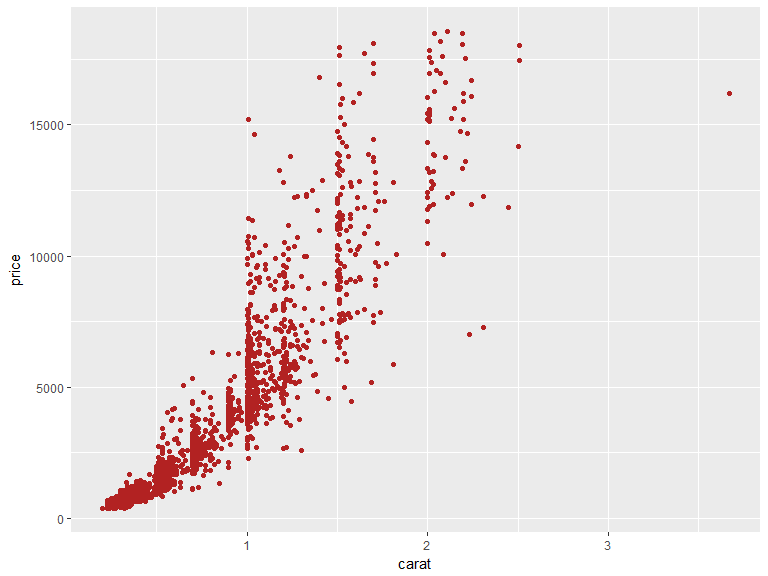
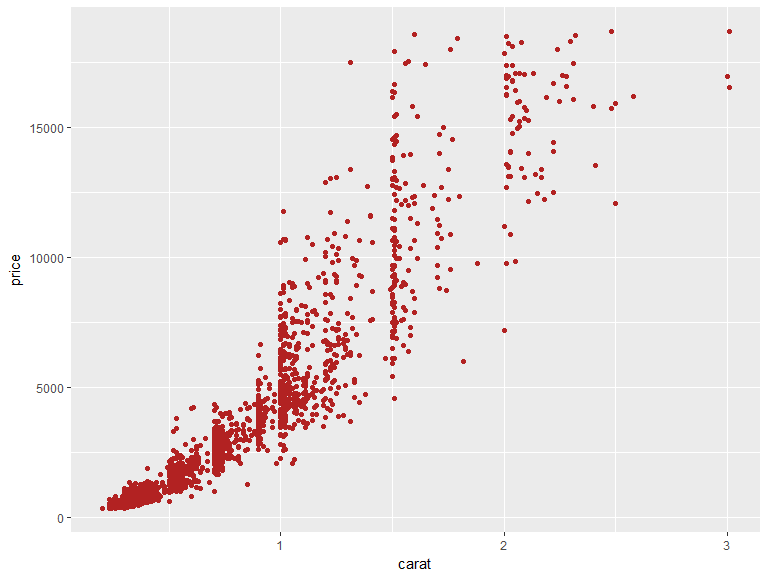
Updating changes

diff --git a/QCBS Workshop Master Deck/QCBS-R-Revamping-Slides.html b/QCBS Workshop Master Deck/QCBS-R-Revamping-Slides.html
@@ -573,15 +573,15 @@ diamonds &lt;-<span class="st"> </span>diamonds[<span class="kw">sample</span>(<
        <span class="kw">aes</span>(carat, price)) <span class="op">+</span>
 <span class="st">  </span><span class="kw">geom_point</span>(<span class="dt">color=</span><span class="st">&quot;firebrick&quot;</span>)</code></pre></div>
 <p><img src="QCBS-R-Revamping-Slides_files/figure-revealjs/unnamed-chunk-4-1.png" /><!-- --></p>
-</section><section id="slide-with-another-ggplot-and-arrows-between-them" class="slide level2">
-<h2>Slide with another ggplot and arrows between them</h2>
+</section><section id="slide-with-another-ggplot-grid-and-arrows-between-them" class="slide level2">
+<h2>Slide with another ggplot, grid and arrows between them</h2>
 <p><img src="QCBS-R-Revamping-Slides_files/figure-revealjs/unnamed-chunk-5-1.png" /><!-- --></p>
 <p><a href="https://stackoverflow.com/questions/34744655/how-to-make-a-chain-of-ggplots-and-draw-arrows-between-them" class="uri">https://stackoverflow.com/questions/34744655/how-to-make-a-chain-of-ggplots-and-draw-arrows-between-them</a></p>
 </section><section id="use-a-zoom-transition-ggplot-and-plotly" class="slide level2" data-transition="zoom">
 <h2>Use a zoom transition, ggplot and plotly!</h2>
 <p><em>It is interactive!!!</em></p>
-<div id="1dcc5cab5839" style="width:768px;height:576px;" class="plotly html-widget"></div>
-<script type="application/json" data-for="1dcc5cab5839">{"x":{"data":[{"x":[-18,-21,-20,-21,-18,-16,-20,-19,-19,-22,-18,-28,-24,-25,-23,-24,-26,-25,-24,-21,-18,-18,-21,-21,-19,-19,-20,-20,-21,-19,-23,-23,-18,-18,-20,-19,-20,-18,-21,-19,-19,-19,-20,-20,-19,-20,-15,-16,-21,-21,-21,-21,-21,-21,-21,-22,-24,-24,-26,-28,-26,-15,-16,-17,-21,-19,-21,-22,-33,-21,-19,-22,-21,-35,-29,-21,-19,-21,-18,-19,-21],"y":[29,29,31,30,26,25,28,27,27,30,24,33,32,32,29,32,34,36,36,29,26,27,30,31,26,29,28,27,29,27,31,32,25,24,27,25,26,23,26,26,26,26,25,27,25,27,20,20,29,27,31,31,27,29,31,31,30,33,35,37,35,20,20,22,29,26,29,29,44,29,26,29,29,44,41,29,26,29,29,28,29],"text":["-cty: -18<br />hwy: 29<br />as.factor(cyl): 4","-cty: -21<br />hwy: 29<br />as.factor(cyl): 4","-cty: -20<br />hwy: 31<br />as.factor(cyl): 4","-cty: -21<br />hwy: 30<br />as.factor(cyl): 4","-cty: -18<br />hwy: 26<br />as.factor(cyl): 4","-cty: -16<br />hwy: 25<br />as.factor(cyl): 4","-cty: -20<br />hwy: 28<br />as.factor(cyl): 4","-cty: -19<br />hwy: 27<br />as.factor(cyl): 4","-cty: -19<br />hwy: 27<br />as.factor(cyl): 4","-cty: -22<br />hwy: 30<br />as.factor(cyl): 4","-cty: -18<br />hwy: 24<br />as.factor(cyl): 4","-cty: -28<br />hwy: 33<br />as.factor(cyl): 4","-cty: -24<br />hwy: 32<br />as.factor(cyl): 4","-cty: -25<br />hwy: 32<br />as.factor(cyl): 4","-cty: -23<br />hwy: 29<br />as.factor(cyl): 4","-cty: -24<br />hwy: 32<br />as.factor(cyl): 4","-cty: -26<br />hwy: 34<br />as.factor(cyl): 4","-cty: -25<br />hwy: 36<br />as.factor(cyl): 4","-cty: -24<br />hwy: 36<br />as.factor(cyl): 4","-cty: -21<br />hwy: 29<br />as.factor(cyl): 4","-cty: -18<br />hwy: 26<br />as.factor(cyl): 4","-cty: -18<br />hwy: 27<br />as.factor(cyl): 4","-cty: -21<br />hwy: 30<br />as.factor(cyl): 4","-cty: -21<br />hwy: 31<br />as.factor(cyl): 4","-cty: -19<br />hwy: 26<br />as.factor(cyl): 4","-cty: -19<br />hwy: 29<br />as.factor(cyl): 4","-cty: -20<br />hwy: 28<br />as.factor(cyl): 4","-cty: -20<br />hwy: 27<br />as.factor(cyl): 4","-cty: -21<br />hwy: 29<br />as.factor(cyl): 4","-cty: -19<br />hwy: 27<br />as.factor(cyl): 4","-cty: -23<br />hwy: 31<br />as.factor(cyl): 4","-cty: -23<br />hwy: 32<br />as.factor(cyl): 4","-cty: -18<br />hwy: 25<br />as.factor(cyl): 4","-cty: -18<br />hwy: 24<br />as.factor(cyl): 4","-cty: -20<br />hwy: 27<br />as.factor(cyl): 4","-cty: -19<br />hwy: 25<br />as.factor(cyl): 4","-cty: -20<br />hwy: 26<br />as.factor(cyl): 4","-cty: -18<br />hwy: 23<br />as.factor(cyl): 4","-cty: -21<br />hwy: 26<br />as.factor(cyl): 4","-cty: -19<br />hwy: 26<br />as.factor(cyl): 4","-cty: -19<br />hwy: 26<br />as.factor(cyl): 4","-cty: -19<br />hwy: 26<br />as.factor(cyl): 4","-cty: -20<br />hwy: 25<br />as.factor(cyl): 4","-cty: -20<br />hwy: 27<br />as.factor(cyl): 4","-cty: -19<br />hwy: 25<br />as.factor(cyl): 4","-cty: -20<br />hwy: 27<br />as.factor(cyl): 4","-cty: -15<br />hwy: 20<br />as.factor(cyl): 4","-cty: -16<br />hwy: 20<br />as.factor(cyl): 4","-cty: -21<br />hwy: 29<br />as.factor(cyl): 4","-cty: -21<br />hwy: 27<br />as.factor(cyl): 4","-cty: -21<br />hwy: 31<br />as.factor(cyl): 4","-cty: -21<br />hwy: 31<br />as.factor(cyl): 4","-cty: -21<br />hwy: 27<br />as.factor(cyl): 4","-cty: -21<br />hwy: 29<br />as.factor(cyl): 4","-cty: -21<br />hwy: 31<br />as.factor(cyl): 4","-cty: -22<br />hwy: 31<br />as.factor(cyl): 4","-cty: -24<br />hwy: 30<br />as.factor(cyl): 4","-cty: -24<br />hwy: 33<br />as.factor(cyl): 4","-cty: -26<br />hwy: 35<br />as.factor(cyl): 4","-cty: -28<br />hwy: 37<br />as.factor(cyl): 4","-cty: -26<br />hwy: 35<br />as.factor(cyl): 4","-cty: -15<br />hwy: 20<br />as.factor(cyl): 4","-cty: -16<br />hwy: 20<br />as.factor(cyl): 4","-cty: -17<br />hwy: 22<br />as.factor(cyl): 4","-cty: -21<br />hwy: 29<br />as.factor(cyl): 4","-cty: -19<br />hwy: 26<br />as.factor(cyl): 4","-cty: -21<br />hwy: 29<br />as.factor(cyl): 4","-cty: -22<br />hwy: 29<br />as.factor(cyl): 4","-cty: -33<br />hwy: 44<br />as.factor(cyl): 4","-cty: -21<br />hwy: 29<br />as.factor(cyl): 4","-cty: -19<br />hwy: 26<br />as.factor(cyl): 4","-cty: -22<br />hwy: 29<br />as.factor(cyl): 4","-cty: -21<br />hwy: 29<br />as.factor(cyl): 4","-cty: -35<br />hwy: 44<br />as.factor(cyl): 4","-cty: -29<br />hwy: 41<br />as.factor(cyl): 4","-cty: -21<br />hwy: 29<br />as.factor(cyl): 4","-cty: -19<br />hwy: 26<br />as.factor(cyl): 4","-cty: -21<br />hwy: 29<br />as.factor(cyl): 4","-cty: -18<br />hwy: 29<br />as.factor(cyl): 4","-cty: -19<br />hwy: 28<br />as.factor(cyl): 4","-cty: -21<br />hwy: 29<br />as.factor(cyl): 4"],"type":"scatter","mode":"markers","marker":{"autocolorscale":false,"color":"rgba(248,118,109,1)","opacity":1,"size":5.66929133858268,"symbol":"circle","line":{"width":1.88976377952756,"color":"rgba(248,118,109,1)"}},"hoveron":"points","name":"4","legendgroup":"4","showlegend":true,"xaxis":"x","yaxis":"y","hoverinfo":"text","frame":null},{"x":[-21,-21,-20,-20],"y":[29,29,28,29],"text":["-cty: -21<br />hwy: 29<br />as.factor(cyl): 5","-cty: -21<br />hwy: 29<br />as.factor(cyl): 5","-cty: -20<br />hwy: 28<br />as.factor(cyl): 5","-cty: -20<br />hwy: 29<br />as.factor(cyl): 5"],"type":"scatter","mode":"markers","marker":{"autocolorscale":false,"color":"rgba(124,174,0,1)","opacity":1,"size":5.66929133858268,"symbol":"circle","line":{"width":1.88976377952756,"color":"rgba(124,174,0,1)"}},"hoveron":"points","name":"5","legendgroup":"5","showlegend":true,"xaxis":"x","yaxis":"y","hoverinfo":"text","frame":null},{"x":[-16,-18,-18,-15,-17,-17,-15,-15,-17,-18,-18,-17,-17,-16,-16,-17,-17,-11,-15,-15,-16,-16,-15,-14,-13,-14,-13,-14,-15,-14,-13,-14,-14,-18,-18,-17,-16,-18,-18,-19,-17,-16,-17,-17,-15,-15,-14,-13,-19,-19,-18,-19,-19,-14,-15,-14,-18,-16,-17,-18,-15,-15,-16,-18,-18,-19,-18,-18,-18,-15,-15,-15,-16,-17,-16,-17,-16,-18,-17],"y":[26,26,27,25,25,25,25,24,25,26,29,26,24,22,22,24,24,17,22,21,23,23,19,18,17,17,17,17,19,17,19,17,17,26,25,26,24,26,26,28,24,24,24,22,19,20,17,19,27,26,26,25,25,17,17,20,26,26,27,28,19,17,20,26,26,28,26,26,27,17,19,18,20,24,23,24,26,26,26],"text":["-cty: -16<br />hwy: 26<br />as.factor(cyl): 6","-cty: -18<br />hwy: 26<br />as.factor(cyl): 6","-cty: -18<br />hwy: 27<br />as.factor(cyl): 6","-cty: -15<br />hwy: 25<br />as.factor(cyl): 6","-cty: -17<br />hwy: 25<br />as.factor(cyl): 6","-cty: -17<br />hwy: 25<br />as.factor(cyl): 6","-cty: -15<br />hwy: 25<br />as.factor(cyl): 6","-cty: -15<br />hwy: 24<br />as.factor(cyl): 6","-cty: -17<br />hwy: 25<br />as.factor(cyl): 6","-cty: -18<br />hwy: 26<br />as.factor(cyl): 6","-cty: -18<br />hwy: 29<br />as.factor(cyl): 6","-cty: -17<br />hwy: 26<br />as.factor(cyl): 6","-cty: -17<br />hwy: 24<br />as.factor(cyl): 6","-cty: -16<br />hwy: 22<br />as.factor(cyl): 6","-cty: -16<br />hwy: 22<br />as.factor(cyl): 6","-cty: -17<br />hwy: 24<br />as.factor(cyl): 6","-cty: -17<br />hwy: 24<br />as.factor(cyl): 6","-cty: -11<br />hwy: 17<br />as.factor(cyl): 6","-cty: -15<br />hwy: 22<br />as.factor(cyl): 6","-cty: -15<br />hwy: 21<br />as.factor(cyl): 6","-cty: -16<br />hwy: 23<br />as.factor(cyl): 6","-cty: -16<br />hwy: 23<br />as.factor(cyl): 6","-cty: -15<br />hwy: 19<br />as.factor(cyl): 6","-cty: -14<br />hwy: 18<br />as.factor(cyl): 6","-cty: -13<br />hwy: 17<br />as.factor(cyl): 6","-cty: -14<br />hwy: 17<br />as.factor(cyl): 6","-cty: -13<br />hwy: 17<br />as.factor(cyl): 6","-cty: -14<br />hwy: 17<br />as.factor(cyl): 6","-cty: -15<br />hwy: 19<br />as.factor(cyl): 6","-cty: -14<br />hwy: 17<br />as.factor(cyl): 6","-cty: -13<br />hwy: 19<br />as.factor(cyl): 6","-cty: -14<br />hwy: 17<br />as.factor(cyl): 6","-cty: -14<br />hwy: 17<br />as.factor(cyl): 6","-cty: -18<br />hwy: 26<br />as.factor(cyl): 6","-cty: -18<br />hwy: 25<br />as.factor(cyl): 6","-cty: -17<br />hwy: 26<br />as.factor(cyl): 6","-cty: -16<br />hwy: 24<br />as.factor(cyl): 6","-cty: -18<br />hwy: 26<br />as.factor(cyl): 6","-cty: -18<br />hwy: 26<br />as.factor(cyl): 6","-cty: -19<br />hwy: 28<br />as.factor(cyl): 6","-cty: -17<br />hwy: 24<br />as.factor(cyl): 6","-cty: -16<br />hwy: 24<br />as.factor(cyl): 6","-cty: -17<br />hwy: 24<br />as.factor(cyl): 6","-cty: -17<br />hwy: 22<br />as.factor(cyl): 6","-cty: -15<br />hwy: 19<br />as.factor(cyl): 6","-cty: -15<br />hwy: 20<br />as.factor(cyl): 6","-cty: -14<br />hwy: 17<br />as.factor(cyl): 6","-cty: -13<br />hwy: 19<br />as.factor(cyl): 6","-cty: -19<br />hwy: 27<br />as.factor(cyl): 6","-cty: -19<br />hwy: 26<br />as.factor(cyl): 6","-cty: -18<br />hwy: 26<br />as.factor(cyl): 6","-cty: -19<br />hwy: 25<br />as.factor(cyl): 6","-cty: -19<br />hwy: 25<br />as.factor(cyl): 6","-cty: -14<br />hwy: 17<br />as.factor(cyl): 6","-cty: -15<br />hwy: 17<br />as.factor(cyl): 6","-cty: -14<br />hwy: 20<br />as.factor(cyl): 6","-cty: -18<br />hwy: 26<br />as.factor(cyl): 6","-cty: -16<br />hwy: 26<br />as.factor(cyl): 6","-cty: -17<br />hwy: 27<br />as.factor(cyl): 6","-cty: -18<br />hwy: 28<br />as.factor(cyl): 6","-cty: -15<br />hwy: 19<br />as.factor(cyl): 6","-cty: -15<br />hwy: 17<br />as.factor(cyl): 6","-cty: -16<br />hwy: 20<br />as.factor(cyl): 6","-cty: -18<br />hwy: 26<br />as.factor(cyl): 6","-cty: -18<br />hwy: 26<br />as.factor(cyl): 6","-cty: -19<br />hwy: 28<br />as.factor(cyl): 6","-cty: -18<br />hwy: 26<br />as.factor(cyl): 6","-cty: -18<br />hwy: 26<br />as.factor(cyl): 6","-cty: -18<br />hwy: 27<br />as.factor(cyl): 6","-cty: -15<br />hwy: 17<br />as.factor(cyl): 6","-cty: -15<br />hwy: 19<br />as.factor(cyl): 6","-cty: -15<br />hwy: 18<br />as.factor(cyl): 6","-cty: -16<br />hwy: 20<br />as.factor(cyl): 6","-cty: -17<br />hwy: 24<br />as.factor(cyl): 6","-cty: -16<br />hwy: 23<br />as.factor(cyl): 6","-cty: -17<br />hwy: 24<br />as.factor(cyl): 6","-cty: -16<br />hwy: 26<br />as.factor(cyl): 6","-cty: -18<br />hwy: 26<br />as.factor(cyl): 6","-cty: -17<br />hwy: 26<br />as.factor(cyl): 6"],"type":"scatter","mode":"markers","marker":{"autocolorscale":false,"color":"rgba(0,191,196,1)","opacity":1,"size":5.66929133858268,"symbol":"circle","line":{"width":1.88976377952756,"color":"rgba(0,191,196,1)"}},"hoveron":"points","name":"6","legendgroup":"6","showlegend":true,"xaxis":"x","yaxis":"y","hoverinfo":"text","frame":null},{"x":[-16,-14,-11,-14,-13,-12,-16,-15,-16,-15,-15,-14,-11,-11,-14,-14,-14,-9,-11,-11,-13,-9,-13,-11,-13,-11,-12,-9,-13,-13,-12,-9,-11,-11,-13,-11,-11,-11,-12,-13,-13,-13,-13,-13,-11,-13,-15,-15,-15,-15,-14,-14,-9,-14,-13,-11,-11,-12,-12,-11,-11,-11,-12,-13,-13,-12,-16,-14,-11,-13],"y":[23,20,15,20,17,17,26,23,26,25,24,19,14,15,17,19,19,12,17,15,17,12,17,16,18,15,16,12,17,17,16,12,15,16,17,15,17,17,18,19,17,16,16,17,15,17,21,22,23,22,20,17,12,19,18,14,15,18,18,15,17,16,18,19,17,18,25,17,15,18],"text":["-cty: -16<br />hwy: 23<br />as.factor(cyl): 8","-cty: -14<br />hwy: 20<br />as.factor(cyl): 8","-cty: -11<br />hwy: 15<br />as.factor(cyl): 8","-cty: -14<br />hwy: 20<br />as.factor(cyl): 8","-cty: -13<br />hwy: 17<br />as.factor(cyl): 8","-cty: -12<br />hwy: 17<br />as.factor(cyl): 8","-cty: -16<br />hwy: 26<br />as.factor(cyl): 8","-cty: -15<br />hwy: 23<br />as.factor(cyl): 8","-cty: -16<br />hwy: 26<br />as.factor(cyl): 8","-cty: -15<br />hwy: 25<br />as.factor(cyl): 8","-cty: -15<br />hwy: 24<br />as.factor(cyl): 8","-cty: -14<br />hwy: 19<br />as.factor(cyl): 8","-cty: -11<br />hwy: 14<br />as.factor(cyl): 8","-cty: -11<br />hwy: 15<br />as.factor(cyl): 8","-cty: -14<br />hwy: 17<br />as.factor(cyl): 8","-cty: -14<br />hwy: 19<br />as.factor(cyl): 8","-cty: -14<br />hwy: 19<br />as.factor(cyl): 8","-cty:  -9<br />hwy: 12<br />as.factor(cyl): 8","-cty: -11<br />hwy: 17<br />as.factor(cyl): 8","-cty: -11<br />hwy: 15<br />as.factor(cyl): 8","-cty: -13<br />hwy: 17<br />as.factor(cyl): 8","-cty:  -9<br />hwy: 12<br />as.factor(cyl): 8","-cty: -13<br />hwy: 17<br />as.factor(cyl): 8","-cty: -11<br />hwy: 16<br />as.factor(cyl): 8","-cty: -13<br />hwy: 18<br />as.factor(cyl): 8","-cty: -11<br />hwy: 15<br />as.factor(cyl): 8","-cty: -12<br />hwy: 16<br />as.factor(cyl): 8","-cty:  -9<br />hwy: 12<br />as.factor(cyl): 8","-cty: -13<br />hwy: 17<br />as.factor(cyl): 8","-cty: -13<br />hwy: 17<br />as.factor(cyl): 8","-cty: -12<br />hwy: 16<br />as.factor(cyl): 8","-cty:  -9<br />hwy: 12<br />as.factor(cyl): 8","-cty: -11<br />hwy: 15<br />as.factor(cyl): 8","-cty: -11<br />hwy: 16<br />as.factor(cyl): 8","-cty: -13<br />hwy: 17<br />as.factor(cyl): 8","-cty: -11<br />hwy: 15<br />as.factor(cyl): 8","-cty: -11<br />hwy: 17<br />as.factor(cyl): 8","-cty: -11<br />hwy: 17<br />as.factor(cyl): 8","-cty: -12<br />hwy: 18<br />as.factor(cyl): 8","-cty: -13<br />hwy: 19<br />as.factor(cyl): 8","-cty: -13<br />hwy: 17<br />as.factor(cyl): 8","-cty: -13<br />hwy: 16<br />as.factor(cyl): 8","-cty: -13<br />hwy: 16<br />as.factor(cyl): 8","-cty: -13<br />hwy: 17<br />as.factor(cyl): 8","-cty: -11<br />hwy: 15<br />as.factor(cyl): 8","-cty: -13<br />hwy: 17<br />as.factor(cyl): 8","-cty: -15<br />hwy: 21<br />as.factor(cyl): 8","-cty: -15<br />hwy: 22<br />as.factor(cyl): 8","-cty: -15<br />hwy: 23<br />as.factor(cyl): 8","-cty: -15<br />hwy: 22<br />as.factor(cyl): 8","-cty: -14<br />hwy: 20<br />as.factor(cyl): 8","-cty: -14<br />hwy: 17<br />as.factor(cyl): 8","-cty:  -9<br />hwy: 12<br />as.factor(cyl): 8","-cty: -14<br />hwy: 19<br />as.factor(cyl): 8","-cty: -13<br />hwy: 18<br />as.factor(cyl): 8","-cty: -11<br />hwy: 14<br />as.factor(cyl): 8","-cty: -11<br />hwy: 15<br />as.factor(cyl): 8","-cty: -12<br />hwy: 18<br />as.factor(cyl): 8","-cty: -12<br />hwy: 18<br />as.factor(cyl): 8","-cty: -11<br />hwy: 15<br />as.factor(cyl): 8","-cty: -11<br />hwy: 17<br />as.factor(cyl): 8","-cty: -11<br />hwy: 16<br />as.factor(cyl): 8","-cty: -12<br />hwy: 18<br />as.factor(cyl): 8","-cty: -13<br />hwy: 19<br />as.factor(cyl): 8","-cty: -13<br />hwy: 17<br />as.factor(cyl): 8","-cty: -12<br />hwy: 18<br />as.factor(cyl): 8","-cty: -16<br />hwy: 25<br />as.factor(cyl): 8","-cty: -14<br />hwy: 17<br />as.factor(cyl): 8","-cty: -11<br />hwy: 15<br />as.factor(cyl): 8","-cty: -13<br />hwy: 18<br />as.factor(cyl): 8"],"type":"scatter","mode":"markers","marker":{"autocolorscale":false,"color":"rgba(199,124,255,1)","opacity":1,"size":5.66929133858268,"symbol":"circle","line":{"width":1.88976377952756,"color":"rgba(199,124,255,1)"}},"hoveron":"points","name":"8","legendgroup":"8","showlegend":true,"xaxis":"x","yaxis":"y","hoverinfo":"text","frame":null}],"layout":{"margin":{"t":25.7412480974125,"r":7.30593607305936,"b":39.6955859969559,"l":37.2602739726027},"plot_bgcolor":"rgba(235,235,235,1)","paper_bgcolor":"rgba(255,255,255,1)","font":{"color":"rgba(0,0,0,1)","family":"","size":14.6118721461187},"xaxis":{"domain":[0,1],"type":"linear","autorange":false,"range":[-36.3,-7.7],"tickmode":"array","ticktext":["-35","-30","-25","-20","-15","-10"],"tickvals":[-35,-30,-25,-20,-15,-10],"categoryorder":"array","categoryarray":["-35","-30","-25","-20","-15","-10"],"nticks":null,"ticks":"outside","tickcolor":"rgba(51,51,51,1)","ticklen":3.65296803652968,"tickwidth":0.66417600664176,"showticklabels":true,"tickfont":{"color":"rgba(77,77,77,1)","family":"","size":11.689497716895},"tickangle":-0,"showline":false,"linecolor":null,"linewidth":0,"showgrid":true,"gridcolor":"rgba(255,255,255,1)","gridwidth":0.66417600664176,"zeroline":false,"anchor":"y","title":"-cty","titlefont":{"color":"rgba(0,0,0,1)","family":"","size":14.6118721461187},"hoverformat":".2f"},"yaxis":{"domain":[0,1],"type":"linear","autorange":false,"range":[10.4,45.6],"tickmode":"array","ticktext":["20","30","40"],"tickvals":[20,30,40],"categoryorder":"array","categoryarray":["20","30","40"],"nticks":null,"ticks":"outside","tickcolor":"rgba(51,51,51,1)","ticklen":3.65296803652968,"tickwidth":0.66417600664176,"showticklabels":true,"tickfont":{"color":"rgba(77,77,77,1)","family":"","size":11.689497716895},"tickangle":-0,"showline":false,"linecolor":null,"linewidth":0,"showgrid":true,"gridcolor":"rgba(255,255,255,1)","gridwidth":0.66417600664176,"zeroline":false,"anchor":"x","title":"hwy","titlefont":{"color":"rgba(0,0,0,1)","family":"","size":14.6118721461187},"hoverformat":".2f"},"shapes":[{"type":"rect","fillcolor":null,"line":{"color":null,"width":0,"linetype":[]},"yref":"paper","xref":"paper","x0":0,"x1":1,"y0":0,"y1":1}],"showlegend":true,"legend":{"bgcolor":"rgba(255,255,255,1)","bordercolor":"transparent","borderwidth":1.88976377952756,"font":{"color":"rgba(0,0,0,1)","family":"","size":11.689497716895},"y":0.927821522309711},"annotations":[{"text":"as.factor(cyl)","x":1.02,"y":1,"showarrow":false,"ax":0,"ay":0,"font":{"color":"rgba(0,0,0,1)","family":"","size":14.6118721461187},"xref":"paper","yref":"paper","textangle":-0,"xanchor":"left","yanchor":"bottom","legendTitle":true}],"hovermode":"closest","barmode":"relative"},"config":{"doubleClick":"reset","modeBarButtonsToAdd":[{"name":"Collaborate","icon":{"width":1000,"ascent":500,"descent":-50,"path":"M487 375c7-10 9-23 5-36l-79-259c-3-12-11-23-22-31-11-8-22-12-35-12l-263 0c-15 0-29 5-43 15-13 10-23 23-28 37-5 13-5 25-1 37 0 0 0 3 1 7 1 5 1 8 1 11 0 2 0 4-1 6 0 3-1 5-1 6 1 2 2 4 3 6 1 2 2 4 4 6 2 3 4 5 5 7 5 7 9 16 13 26 4 10 7 19 9 26 0 2 0 5 0 9-1 4-1 6 0 8 0 2 2 5 4 8 3 3 5 5 5 7 4 6 8 15 12 26 4 11 7 19 7 26 1 1 0 4 0 9-1 4-1 7 0 8 1 2 3 5 6 8 4 4 6 6 6 7 4 5 8 13 13 24 4 11 7 20 7 28 1 1 0 4 0 7-1 3-1 6-1 7 0 2 1 4 3 6 1 1 3 4 5 6 2 3 3 5 5 6 1 2 3 5 4 9 2 3 3 7 5 10 1 3 2 6 4 10 2 4 4 7 6 9 2 3 4 5 7 7 3 2 7 3 11 3 3 0 8 0 13-1l0-1c7 2 12 2 14 2l218 0c14 0 25-5 32-16 8-10 10-23 6-37l-79-259c-7-22-13-37-20-43-7-7-19-10-37-10l-248 0c-5 0-9-2-11-5-2-3-2-7 0-12 4-13 18-20 41-20l264 0c5 0 10 2 16 5 5 3 8 6 10 11l85 282c2 5 2 10 2 17 7-3 13-7 17-13z m-304 0c-1-3-1-5 0-7 1-1 3-2 6-2l174 0c2 0 4 1 7 2 2 2 4 4 5 7l6 18c0 3 0 5-1 7-1 1-3 2-6 2l-173 0c-3 0-5-1-8-2-2-2-4-4-4-7z m-24-73c-1-3-1-5 0-7 2-2 3-2 6-2l174 0c2 0 5 0 7 2 3 2 4 4 5 7l6 18c1 2 0 5-1 6-1 2-3 3-5 3l-174 0c-3 0-5-1-7-3-3-1-4-4-5-6z"},"click":"function(gd) { \n        // is this being viewed in RStudio?\n        if (location.search == '?viewer_pane=1') {\n          alert('To learn about plotly for collaboration, visit:\\n https://cpsievert.github.io/plotly_book/plot-ly-for-collaboration.html');\n        } else {\n          window.open('https://cpsievert.github.io/plotly_book/plot-ly-for-collaboration.html', '_blank');\n        }\n      }"}],"cloud":false},"source":"A","attrs":{"1dcc5f30d3e":{"x":{},"y":{},"colour":{},"type":"scatter"}},"cur_data":"1dcc5f30d3e","visdat":{"1dcc5f30d3e":["function (y) ","x"]},"highlight":{"on":"plotly_click","persistent":false,"dynamic":false,"selectize":false,"opacityDim":0.2,"selected":{"opacity":1}},"base_url":"https://plot.ly"},"evals":["config.modeBarButtonsToAdd.0.click"],"jsHooks":{"render":[{"code":"function(el, x) { var ctConfig = crosstalk.var('plotlyCrosstalkOpts').set({\"on\":\"plotly_click\",\"persistent\":false,\"dynamic\":false,\"selectize\":false,\"opacityDim\":0.2,\"selected\":{\"opacity\":1}}); }","data":null}]}}</script>
+<div id="247c6c2c2d30" style="width:768px;height:576px;" class="plotly html-widget"></div>
+<script type="application/json" data-for="247c6c2c2d30">{"x":{"data":[{"x":[-18,-21,-20,-21,-18,-16,-20,-19,-19,-22,-18,-28,-24,-25,-23,-24,-26,-25,-24,-21,-18,-18,-21,-21,-19,-19,-20,-20,-21,-19,-23,-23,-18,-18,-20,-19,-20,-18,-21,-19,-19,-19,-20,-20,-19,-20,-15,-16,-21,-21,-21,-21,-21,-21,-21,-22,-24,-24,-26,-28,-26,-15,-16,-17,-21,-19,-21,-22,-33,-21,-19,-22,-21,-35,-29,-21,-19,-21,-18,-19,-21],"y":[29,29,31,30,26,25,28,27,27,30,24,33,32,32,29,32,34,36,36,29,26,27,30,31,26,29,28,27,29,27,31,32,25,24,27,25,26,23,26,26,26,26,25,27,25,27,20,20,29,27,31,31,27,29,31,31,30,33,35,37,35,20,20,22,29,26,29,29,44,29,26,29,29,44,41,29,26,29,29,28,29],"text":["-cty: -18<br />hwy: 29<br />as.factor(cyl): 4","-cty: -21<br />hwy: 29<br />as.factor(cyl): 4","-cty: -20<br />hwy: 31<br />as.factor(cyl): 4","-cty: -21<br />hwy: 30<br />as.factor(cyl): 4","-cty: -18<br />hwy: 26<br />as.factor(cyl): 4","-cty: -16<br />hwy: 25<br />as.factor(cyl): 4","-cty: -20<br />hwy: 28<br />as.factor(cyl): 4","-cty: -19<br />hwy: 27<br />as.factor(cyl): 4","-cty: -19<br />hwy: 27<br />as.factor(cyl): 4","-cty: -22<br />hwy: 30<br />as.factor(cyl): 4","-cty: -18<br />hwy: 24<br />as.factor(cyl): 4","-cty: -28<br />hwy: 33<br />as.factor(cyl): 4","-cty: -24<br />hwy: 32<br />as.factor(cyl): 4","-cty: -25<br />hwy: 32<br />as.factor(cyl): 4","-cty: -23<br />hwy: 29<br />as.factor(cyl): 4","-cty: -24<br />hwy: 32<br />as.factor(cyl): 4","-cty: -26<br />hwy: 34<br />as.factor(cyl): 4","-cty: -25<br />hwy: 36<br />as.factor(cyl): 4","-cty: -24<br />hwy: 36<br />as.factor(cyl): 4","-cty: -21<br />hwy: 29<br />as.factor(cyl): 4","-cty: -18<br />hwy: 26<br />as.factor(cyl): 4","-cty: -18<br />hwy: 27<br />as.factor(cyl): 4","-cty: -21<br />hwy: 30<br />as.factor(cyl): 4","-cty: -21<br />hwy: 31<br />as.factor(cyl): 4","-cty: -19<br />hwy: 26<br />as.factor(cyl): 4","-cty: -19<br />hwy: 29<br />as.factor(cyl): 4","-cty: -20<br />hwy: 28<br />as.factor(cyl): 4","-cty: -20<br />hwy: 27<br />as.factor(cyl): 4","-cty: -21<br />hwy: 29<br />as.factor(cyl): 4","-cty: -19<br />hwy: 27<br />as.factor(cyl): 4","-cty: -23<br />hwy: 31<br />as.factor(cyl): 4","-cty: -23<br />hwy: 32<br />as.factor(cyl): 4","-cty: -18<br />hwy: 25<br />as.factor(cyl): 4","-cty: -18<br />hwy: 24<br />as.factor(cyl): 4","-cty: -20<br />hwy: 27<br />as.factor(cyl): 4","-cty: -19<br />hwy: 25<br />as.factor(cyl): 4","-cty: -20<br />hwy: 26<br />as.factor(cyl): 4","-cty: -18<br />hwy: 23<br />as.factor(cyl): 4","-cty: -21<br />hwy: 26<br />as.factor(cyl): 4","-cty: -19<br />hwy: 26<br />as.factor(cyl): 4","-cty: -19<br />hwy: 26<br />as.factor(cyl): 4","-cty: -19<br />hwy: 26<br />as.factor(cyl): 4","-cty: -20<br />hwy: 25<br />as.factor(cyl): 4","-cty: -20<br />hwy: 27<br />as.factor(cyl): 4","-cty: -19<br />hwy: 25<br />as.factor(cyl): 4","-cty: -20<br />hwy: 27<br />as.factor(cyl): 4","-cty: -15<br />hwy: 20<br />as.factor(cyl): 4","-cty: -16<br />hwy: 20<br />as.factor(cyl): 4","-cty: -21<br />hwy: 29<br />as.factor(cyl): 4","-cty: -21<br />hwy: 27<br />as.factor(cyl): 4","-cty: -21<br />hwy: 31<br />as.factor(cyl): 4","-cty: -21<br />hwy: 31<br />as.factor(cyl): 4","-cty: -21<br />hwy: 27<br />as.factor(cyl): 4","-cty: -21<br />hwy: 29<br />as.factor(cyl): 4","-cty: -21<br />hwy: 31<br />as.factor(cyl): 4","-cty: -22<br />hwy: 31<br />as.factor(cyl): 4","-cty: -24<br />hwy: 30<br />as.factor(cyl): 4","-cty: -24<br />hwy: 33<br />as.factor(cyl): 4","-cty: -26<br />hwy: 35<br />as.factor(cyl): 4","-cty: -28<br />hwy: 37<br />as.factor(cyl): 4","-cty: -26<br />hwy: 35<br />as.factor(cyl): 4","-cty: -15<br />hwy: 20<br />as.factor(cyl): 4","-cty: -16<br />hwy: 20<br />as.factor(cyl): 4","-cty: -17<br />hwy: 22<br />as.factor(cyl): 4","-cty: -21<br />hwy: 29<br />as.factor(cyl): 4","-cty: -19<br />hwy: 26<br />as.factor(cyl): 4","-cty: -21<br />hwy: 29<br />as.factor(cyl): 4","-cty: -22<br />hwy: 29<br />as.factor(cyl): 4","-cty: -33<br />hwy: 44<br />as.factor(cyl): 4","-cty: -21<br />hwy: 29<br />as.factor(cyl): 4","-cty: -19<br />hwy: 26<br />as.factor(cyl): 4","-cty: -22<br />hwy: 29<br />as.factor(cyl): 4","-cty: -21<br />hwy: 29<br />as.factor(cyl): 4","-cty: -35<br />hwy: 44<br />as.factor(cyl): 4","-cty: -29<br />hwy: 41<br />as.factor(cyl): 4","-cty: -21<br />hwy: 29<br />as.factor(cyl): 4","-cty: -19<br />hwy: 26<br />as.factor(cyl): 4","-cty: -21<br />hwy: 29<br />as.factor(cyl): 4","-cty: -18<br />hwy: 29<br />as.factor(cyl): 4","-cty: -19<br />hwy: 28<br />as.factor(cyl): 4","-cty: -21<br />hwy: 29<br />as.factor(cyl): 4"],"type":"scatter","mode":"markers","marker":{"autocolorscale":false,"color":"rgba(248,118,109,1)","opacity":1,"size":5.66929133858268,"symbol":"circle","line":{"width":1.88976377952756,"color":"rgba(248,118,109,1)"}},"hoveron":"points","name":"4","legendgroup":"4","showlegend":true,"xaxis":"x","yaxis":"y","hoverinfo":"text","frame":null},{"x":[-21,-21,-20,-20],"y":[29,29,28,29],"text":["-cty: -21<br />hwy: 29<br />as.factor(cyl): 5","-cty: -21<br />hwy: 29<br />as.factor(cyl): 5","-cty: -20<br />hwy: 28<br />as.factor(cyl): 5","-cty: -20<br />hwy: 29<br />as.factor(cyl): 5"],"type":"scatter","mode":"markers","marker":{"autocolorscale":false,"color":"rgba(124,174,0,1)","opacity":1,"size":5.66929133858268,"symbol":"circle","line":{"width":1.88976377952756,"color":"rgba(124,174,0,1)"}},"hoveron":"points","name":"5","legendgroup":"5","showlegend":true,"xaxis":"x","yaxis":"y","hoverinfo":"text","frame":null},{"x":[-16,-18,-18,-15,-17,-17,-15,-15,-17,-18,-18,-17,-17,-16,-16,-17,-17,-11,-15,-15,-16,-16,-15,-14,-13,-14,-13,-14,-15,-14,-13,-14,-14,-18,-18,-17,-16,-18,-18,-19,-17,-16,-17,-17,-15,-15,-14,-13,-19,-19,-18,-19,-19,-14,-15,-14,-18,-16,-17,-18,-15,-15,-16,-18,-18,-19,-18,-18,-18,-15,-15,-15,-16,-17,-16,-17,-16,-18,-17],"y":[26,26,27,25,25,25,25,24,25,26,29,26,24,22,22,24,24,17,22,21,23,23,19,18,17,17,17,17,19,17,19,17,17,26,25,26,24,26,26,28,24,24,24,22,19,20,17,19,27,26,26,25,25,17,17,20,26,26,27,28,19,17,20,26,26,28,26,26,27,17,19,18,20,24,23,24,26,26,26],"text":["-cty: -16<br />hwy: 26<br />as.factor(cyl): 6","-cty: -18<br />hwy: 26<br />as.factor(cyl): 6","-cty: -18<br />hwy: 27<br />as.factor(cyl): 6","-cty: -15<br />hwy: 25<br />as.factor(cyl): 6","-cty: -17<br />hwy: 25<br />as.factor(cyl): 6","-cty: -17<br />hwy: 25<br />as.factor(cyl): 6","-cty: -15<br />hwy: 25<br />as.factor(cyl): 6","-cty: -15<br />hwy: 24<br />as.factor(cyl): 6","-cty: -17<br />hwy: 25<br />as.factor(cyl): 6","-cty: -18<br />hwy: 26<br />as.factor(cyl): 6","-cty: -18<br />hwy: 29<br />as.factor(cyl): 6","-cty: -17<br />hwy: 26<br />as.factor(cyl): 6","-cty: -17<br />hwy: 24<br />as.factor(cyl): 6","-cty: -16<br />hwy: 22<br />as.factor(cyl): 6","-cty: -16<br />hwy: 22<br />as.factor(cyl): 6","-cty: -17<br />hwy: 24<br />as.factor(cyl): 6","-cty: -17<br />hwy: 24<br />as.factor(cyl): 6","-cty: -11<br />hwy: 17<br />as.factor(cyl): 6","-cty: -15<br />hwy: 22<br />as.factor(cyl): 6","-cty: -15<br />hwy: 21<br />as.factor(cyl): 6","-cty: -16<br />hwy: 23<br />as.factor(cyl): 6","-cty: -16<br />hwy: 23<br />as.factor(cyl): 6","-cty: -15<br />hwy: 19<br />as.factor(cyl): 6","-cty: -14<br />hwy: 18<br />as.factor(cyl): 6","-cty: -13<br />hwy: 17<br />as.factor(cyl): 6","-cty: -14<br />hwy: 17<br />as.factor(cyl): 6","-cty: -13<br />hwy: 17<br />as.factor(cyl): 6","-cty: -14<br />hwy: 17<br />as.factor(cyl): 6","-cty: -15<br />hwy: 19<br />as.factor(cyl): 6","-cty: -14<br />hwy: 17<br />as.factor(cyl): 6","-cty: -13<br />hwy: 19<br />as.factor(cyl): 6","-cty: -14<br />hwy: 17<br />as.factor(cyl): 6","-cty: -14<br />hwy: 17<br />as.factor(cyl): 6","-cty: -18<br />hwy: 26<br />as.factor(cyl): 6","-cty: -18<br />hwy: 25<br />as.factor(cyl): 6","-cty: -17<br />hwy: 26<br />as.factor(cyl): 6","-cty: -16<br />hwy: 24<br />as.factor(cyl): 6","-cty: -18<br />hwy: 26<br />as.factor(cyl): 6","-cty: -18<br />hwy: 26<br />as.factor(cyl): 6","-cty: -19<br />hwy: 28<br />as.factor(cyl): 6","-cty: -17<br />hwy: 24<br />as.factor(cyl): 6","-cty: -16<br />hwy: 24<br />as.factor(cyl): 6","-cty: -17<br />hwy: 24<br />as.factor(cyl): 6","-cty: -17<br />hwy: 22<br />as.factor(cyl): 6","-cty: -15<br />hwy: 19<br />as.factor(cyl): 6","-cty: -15<br />hwy: 20<br />as.factor(cyl): 6","-cty: -14<br />hwy: 17<br />as.factor(cyl): 6","-cty: -13<br />hwy: 19<br />as.factor(cyl): 6","-cty: -19<br />hwy: 27<br />as.factor(cyl): 6","-cty: -19<br />hwy: 26<br />as.factor(cyl): 6","-cty: -18<br />hwy: 26<br />as.factor(cyl): 6","-cty: -19<br />hwy: 25<br />as.factor(cyl): 6","-cty: -19<br />hwy: 25<br />as.factor(cyl): 6","-cty: -14<br />hwy: 17<br />as.factor(cyl): 6","-cty: -15<br />hwy: 17<br />as.factor(cyl): 6","-cty: -14<br />hwy: 20<br />as.factor(cyl): 6","-cty: -18<br />hwy: 26<br />as.factor(cyl): 6","-cty: -16<br />hwy: 26<br />as.factor(cyl): 6","-cty: -17<br />hwy: 27<br />as.factor(cyl): 6","-cty: -18<br />hwy: 28<br />as.factor(cyl): 6","-cty: -15<br />hwy: 19<br />as.factor(cyl): 6","-cty: -15<br />hwy: 17<br />as.factor(cyl): 6","-cty: -16<br />hwy: 20<br />as.factor(cyl): 6","-cty: -18<br />hwy: 26<br />as.factor(cyl): 6","-cty: -18<br />hwy: 26<br />as.factor(cyl): 6","-cty: -19<br />hwy: 28<br />as.factor(cyl): 6","-cty: -18<br />hwy: 26<br />as.factor(cyl): 6","-cty: -18<br />hwy: 26<br />as.factor(cyl): 6","-cty: -18<br />hwy: 27<br />as.factor(cyl): 6","-cty: -15<br />hwy: 17<br />as.factor(cyl): 6","-cty: -15<br />hwy: 19<br />as.factor(cyl): 6","-cty: -15<br />hwy: 18<br />as.factor(cyl): 6","-cty: -16<br />hwy: 20<br />as.factor(cyl): 6","-cty: -17<br />hwy: 24<br />as.factor(cyl): 6","-cty: -16<br />hwy: 23<br />as.factor(cyl): 6","-cty: -17<br />hwy: 24<br />as.factor(cyl): 6","-cty: -16<br />hwy: 26<br />as.factor(cyl): 6","-cty: -18<br />hwy: 26<br />as.factor(cyl): 6","-cty: -17<br />hwy: 26<br />as.factor(cyl): 6"],"type":"scatter","mode":"markers","marker":{"autocolorscale":false,"color":"rgba(0,191,196,1)","opacity":1,"size":5.66929133858268,"symbol":"circle","line":{"width":1.88976377952756,"color":"rgba(0,191,196,1)"}},"hoveron":"points","name":"6","legendgroup":"6","showlegend":true,"xaxis":"x","yaxis":"y","hoverinfo":"text","frame":null},{"x":[-16,-14,-11,-14,-13,-12,-16,-15,-16,-15,-15,-14,-11,-11,-14,-14,-14,-9,-11,-11,-13,-9,-13,-11,-13,-11,-12,-9,-13,-13,-12,-9,-11,-11,-13,-11,-11,-11,-12,-13,-13,-13,-13,-13,-11,-13,-15,-15,-15,-15,-14,-14,-9,-14,-13,-11,-11,-12,-12,-11,-11,-11,-12,-13,-13,-12,-16,-14,-11,-13],"y":[23,20,15,20,17,17,26,23,26,25,24,19,14,15,17,19,19,12,17,15,17,12,17,16,18,15,16,12,17,17,16,12,15,16,17,15,17,17,18,19,17,16,16,17,15,17,21,22,23,22,20,17,12,19,18,14,15,18,18,15,17,16,18,19,17,18,25,17,15,18],"text":["-cty: -16<br />hwy: 23<br />as.factor(cyl): 8","-cty: -14<br />hwy: 20<br />as.factor(cyl): 8","-cty: -11<br />hwy: 15<br />as.factor(cyl): 8","-cty: -14<br />hwy: 20<br />as.factor(cyl): 8","-cty: -13<br />hwy: 17<br />as.factor(cyl): 8","-cty: -12<br />hwy: 17<br />as.factor(cyl): 8","-cty: -16<br />hwy: 26<br />as.factor(cyl): 8","-cty: -15<br />hwy: 23<br />as.factor(cyl): 8","-cty: -16<br />hwy: 26<br />as.factor(cyl): 8","-cty: -15<br />hwy: 25<br />as.factor(cyl): 8","-cty: -15<br />hwy: 24<br />as.factor(cyl): 8","-cty: -14<br />hwy: 19<br />as.factor(cyl): 8","-cty: -11<br />hwy: 14<br />as.factor(cyl): 8","-cty: -11<br />hwy: 15<br />as.factor(cyl): 8","-cty: -14<br />hwy: 17<br />as.factor(cyl): 8","-cty: -14<br />hwy: 19<br />as.factor(cyl): 8","-cty: -14<br />hwy: 19<br />as.factor(cyl): 8","-cty:  -9<br />hwy: 12<br />as.factor(cyl): 8","-cty: -11<br />hwy: 17<br />as.factor(cyl): 8","-cty: -11<br />hwy: 15<br />as.factor(cyl): 8","-cty: -13<br />hwy: 17<br />as.factor(cyl): 8","-cty:  -9<br />hwy: 12<br />as.factor(cyl): 8","-cty: -13<br />hwy: 17<br />as.factor(cyl): 8","-cty: -11<br />hwy: 16<br />as.factor(cyl): 8","-cty: -13<br />hwy: 18<br />as.factor(cyl): 8","-cty: -11<br />hwy: 15<br />as.factor(cyl): 8","-cty: -12<br />hwy: 16<br />as.factor(cyl): 8","-cty:  -9<br />hwy: 12<br />as.factor(cyl): 8","-cty: -13<br />hwy: 17<br />as.factor(cyl): 8","-cty: -13<br />hwy: 17<br />as.factor(cyl): 8","-cty: -12<br />hwy: 16<br />as.factor(cyl): 8","-cty:  -9<br />hwy: 12<br />as.factor(cyl): 8","-cty: -11<br />hwy: 15<br />as.factor(cyl): 8","-cty: -11<br />hwy: 16<br />as.factor(cyl): 8","-cty: -13<br />hwy: 17<br />as.factor(cyl): 8","-cty: -11<br />hwy: 15<br />as.factor(cyl): 8","-cty: -11<br />hwy: 17<br />as.factor(cyl): 8","-cty: -11<br />hwy: 17<br />as.factor(cyl): 8","-cty: -12<br />hwy: 18<br />as.factor(cyl): 8","-cty: -13<br />hwy: 19<br />as.factor(cyl): 8","-cty: -13<br />hwy: 17<br />as.factor(cyl): 8","-cty: -13<br />hwy: 16<br />as.factor(cyl): 8","-cty: -13<br />hwy: 16<br />as.factor(cyl): 8","-cty: -13<br />hwy: 17<br />as.factor(cyl): 8","-cty: -11<br />hwy: 15<br />as.factor(cyl): 8","-cty: -13<br />hwy: 17<br />as.factor(cyl): 8","-cty: -15<br />hwy: 21<br />as.factor(cyl): 8","-cty: -15<br />hwy: 22<br />as.factor(cyl): 8","-cty: -15<br />hwy: 23<br />as.factor(cyl): 8","-cty: -15<br />hwy: 22<br />as.factor(cyl): 8","-cty: -14<br />hwy: 20<br />as.factor(cyl): 8","-cty: -14<br />hwy: 17<br />as.factor(cyl): 8","-cty:  -9<br />hwy: 12<br />as.factor(cyl): 8","-cty: -14<br />hwy: 19<br />as.factor(cyl): 8","-cty: -13<br />hwy: 18<br />as.factor(cyl): 8","-cty: -11<br />hwy: 14<br />as.factor(cyl): 8","-cty: -11<br />hwy: 15<br />as.factor(cyl): 8","-cty: -12<br />hwy: 18<br />as.factor(cyl): 8","-cty: -12<br />hwy: 18<br />as.factor(cyl): 8","-cty: -11<br />hwy: 15<br />as.factor(cyl): 8","-cty: -11<br />hwy: 17<br />as.factor(cyl): 8","-cty: -11<br />hwy: 16<br />as.factor(cyl): 8","-cty: -12<br />hwy: 18<br />as.factor(cyl): 8","-cty: -13<br />hwy: 19<br />as.factor(cyl): 8","-cty: -13<br />hwy: 17<br />as.factor(cyl): 8","-cty: -12<br />hwy: 18<br />as.factor(cyl): 8","-cty: -16<br />hwy: 25<br />as.factor(cyl): 8","-cty: -14<br />hwy: 17<br />as.factor(cyl): 8","-cty: -11<br />hwy: 15<br />as.factor(cyl): 8","-cty: -13<br />hwy: 18<br />as.factor(cyl): 8"],"type":"scatter","mode":"markers","marker":{"autocolorscale":false,"color":"rgba(199,124,255,1)","opacity":1,"size":5.66929133858268,"symbol":"circle","line":{"width":1.88976377952756,"color":"rgba(199,124,255,1)"}},"hoveron":"points","name":"8","legendgroup":"8","showlegend":true,"xaxis":"x","yaxis":"y","hoverinfo":"text","frame":null}],"layout":{"margin":{"t":25.7412480974125,"r":7.30593607305936,"b":39.6955859969559,"l":37.2602739726027},"plot_bgcolor":"rgba(235,235,235,1)","paper_bgcolor":"rgba(255,255,255,1)","font":{"color":"rgba(0,0,0,1)","family":"","size":14.6118721461187},"xaxis":{"domain":[0,1],"type":"linear","autorange":false,"range":[-36.3,-7.7],"tickmode":"array","ticktext":["-35","-30","-25","-20","-15","-10"],"tickvals":[-35,-30,-25,-20,-15,-10],"categoryorder":"array","categoryarray":["-35","-30","-25","-20","-15","-10"],"nticks":null,"ticks":"outside","tickcolor":"rgba(51,51,51,1)","ticklen":3.65296803652968,"tickwidth":0.66417600664176,"showticklabels":true,"tickfont":{"color":"rgba(77,77,77,1)","family":"","size":11.689497716895},"tickangle":-0,"showline":false,"linecolor":null,"linewidth":0,"showgrid":true,"gridcolor":"rgba(255,255,255,1)","gridwidth":0.66417600664176,"zeroline":false,"anchor":"y","title":"-cty","titlefont":{"color":"rgba(0,0,0,1)","family":"","size":14.6118721461187},"hoverformat":".2f"},"yaxis":{"domain":[0,1],"type":"linear","autorange":false,"range":[10.4,45.6],"tickmode":"array","ticktext":["20","30","40"],"tickvals":[20,30,40],"categoryorder":"array","categoryarray":["20","30","40"],"nticks":null,"ticks":"outside","tickcolor":"rgba(51,51,51,1)","ticklen":3.65296803652968,"tickwidth":0.66417600664176,"showticklabels":true,"tickfont":{"color":"rgba(77,77,77,1)","family":"","size":11.689497716895},"tickangle":-0,"showline":false,"linecolor":null,"linewidth":0,"showgrid":true,"gridcolor":"rgba(255,255,255,1)","gridwidth":0.66417600664176,"zeroline":false,"anchor":"x","title":"hwy","titlefont":{"color":"rgba(0,0,0,1)","family":"","size":14.6118721461187},"hoverformat":".2f"},"shapes":[{"type":"rect","fillcolor":null,"line":{"color":null,"width":0,"linetype":[]},"yref":"paper","xref":"paper","x0":0,"x1":1,"y0":0,"y1":1}],"showlegend":true,"legend":{"bgcolor":"rgba(255,255,255,1)","bordercolor":"transparent","borderwidth":1.88976377952756,"font":{"color":"rgba(0,0,0,1)","family":"","size":11.689497716895},"y":0.927821522309711},"annotations":[{"text":"as.factor(cyl)","x":1.02,"y":1,"showarrow":false,"ax":0,"ay":0,"font":{"color":"rgba(0,0,0,1)","family":"","size":14.6118721461187},"xref":"paper","yref":"paper","textangle":-0,"xanchor":"left","yanchor":"bottom","legendTitle":true}],"hovermode":"closest","barmode":"relative"},"config":{"doubleClick":"reset","modeBarButtonsToAdd":[{"name":"Collaborate","icon":{"width":1000,"ascent":500,"descent":-50,"path":"M487 375c7-10 9-23 5-36l-79-259c-3-12-11-23-22-31-11-8-22-12-35-12l-263 0c-15 0-29 5-43 15-13 10-23 23-28 37-5 13-5 25-1 37 0 0 0 3 1 7 1 5 1 8 1 11 0 2 0 4-1 6 0 3-1 5-1 6 1 2 2 4 3 6 1 2 2 4 4 6 2 3 4 5 5 7 5 7 9 16 13 26 4 10 7 19 9 26 0 2 0 5 0 9-1 4-1 6 0 8 0 2 2 5 4 8 3 3 5 5 5 7 4 6 8 15 12 26 4 11 7 19 7 26 1 1 0 4 0 9-1 4-1 7 0 8 1 2 3 5 6 8 4 4 6 6 6 7 4 5 8 13 13 24 4 11 7 20 7 28 1 1 0 4 0 7-1 3-1 6-1 7 0 2 1 4 3 6 1 1 3 4 5 6 2 3 3 5 5 6 1 2 3 5 4 9 2 3 3 7 5 10 1 3 2 6 4 10 2 4 4 7 6 9 2 3 4 5 7 7 3 2 7 3 11 3 3 0 8 0 13-1l0-1c7 2 12 2 14 2l218 0c14 0 25-5 32-16 8-10 10-23 6-37l-79-259c-7-22-13-37-20-43-7-7-19-10-37-10l-248 0c-5 0-9-2-11-5-2-3-2-7 0-12 4-13 18-20 41-20l264 0c5 0 10 2 16 5 5 3 8 6 10 11l85 282c2 5 2 10 2 17 7-3 13-7 17-13z m-304 0c-1-3-1-5 0-7 1-1 3-2 6-2l174 0c2 0 4 1 7 2 2 2 4 4 5 7l6 18c0 3 0 5-1 7-1 1-3 2-6 2l-173 0c-3 0-5-1-8-2-2-2-4-4-4-7z m-24-73c-1-3-1-5 0-7 2-2 3-2 6-2l174 0c2 0 5 0 7 2 3 2 4 4 5 7l6 18c1 2 0 5-1 6-1 2-3 3-5 3l-174 0c-3 0-5-1-7-3-3-1-4-4-5-6z"},"click":"function(gd) { \n        // is this being viewed in RStudio?\n        if (location.search == '?viewer_pane=1') {\n          alert('To learn about plotly for collaboration, visit:\\n https://cpsievert.github.io/plotly_book/plot-ly-for-collaboration.html');\n        } else {\n          window.open('https://cpsievert.github.io/plotly_book/plot-ly-for-collaboration.html', '_blank');\n        }\n      }"}],"cloud":false},"source":"A","attrs":{"247c3b4e2991":{"x":{},"y":{},"colour":{},"type":"scatter"}},"cur_data":"247c3b4e2991","visdat":{"247c3b4e2991":["function (y) ","x"]},"highlight":{"on":"plotly_click","persistent":false,"dynamic":false,"selectize":false,"opacityDim":0.2,"selected":{"opacity":1}},"base_url":"https://plot.ly"},"evals":["config.modeBarButtonsToAdd.0.click"],"jsHooks":{"render":[{"code":"function(el, x) { var ctConfig = crosstalk.var('plotlyCrosstalkOpts').set({\"on\":\"plotly_click\",\"persistent\":false,\"dynamic\":false,\"selectize\":false,\"opacityDim\":0.2,\"selected\":{\"opacity\":1}}); }","data":null}]}}</script>
 </section><section id="use-a-faster-speed" class="slide level2" data-transition-speed="fast">
 <h2>Use a faster speed</h2>
 <p>This slide has a figure caption.</p>
